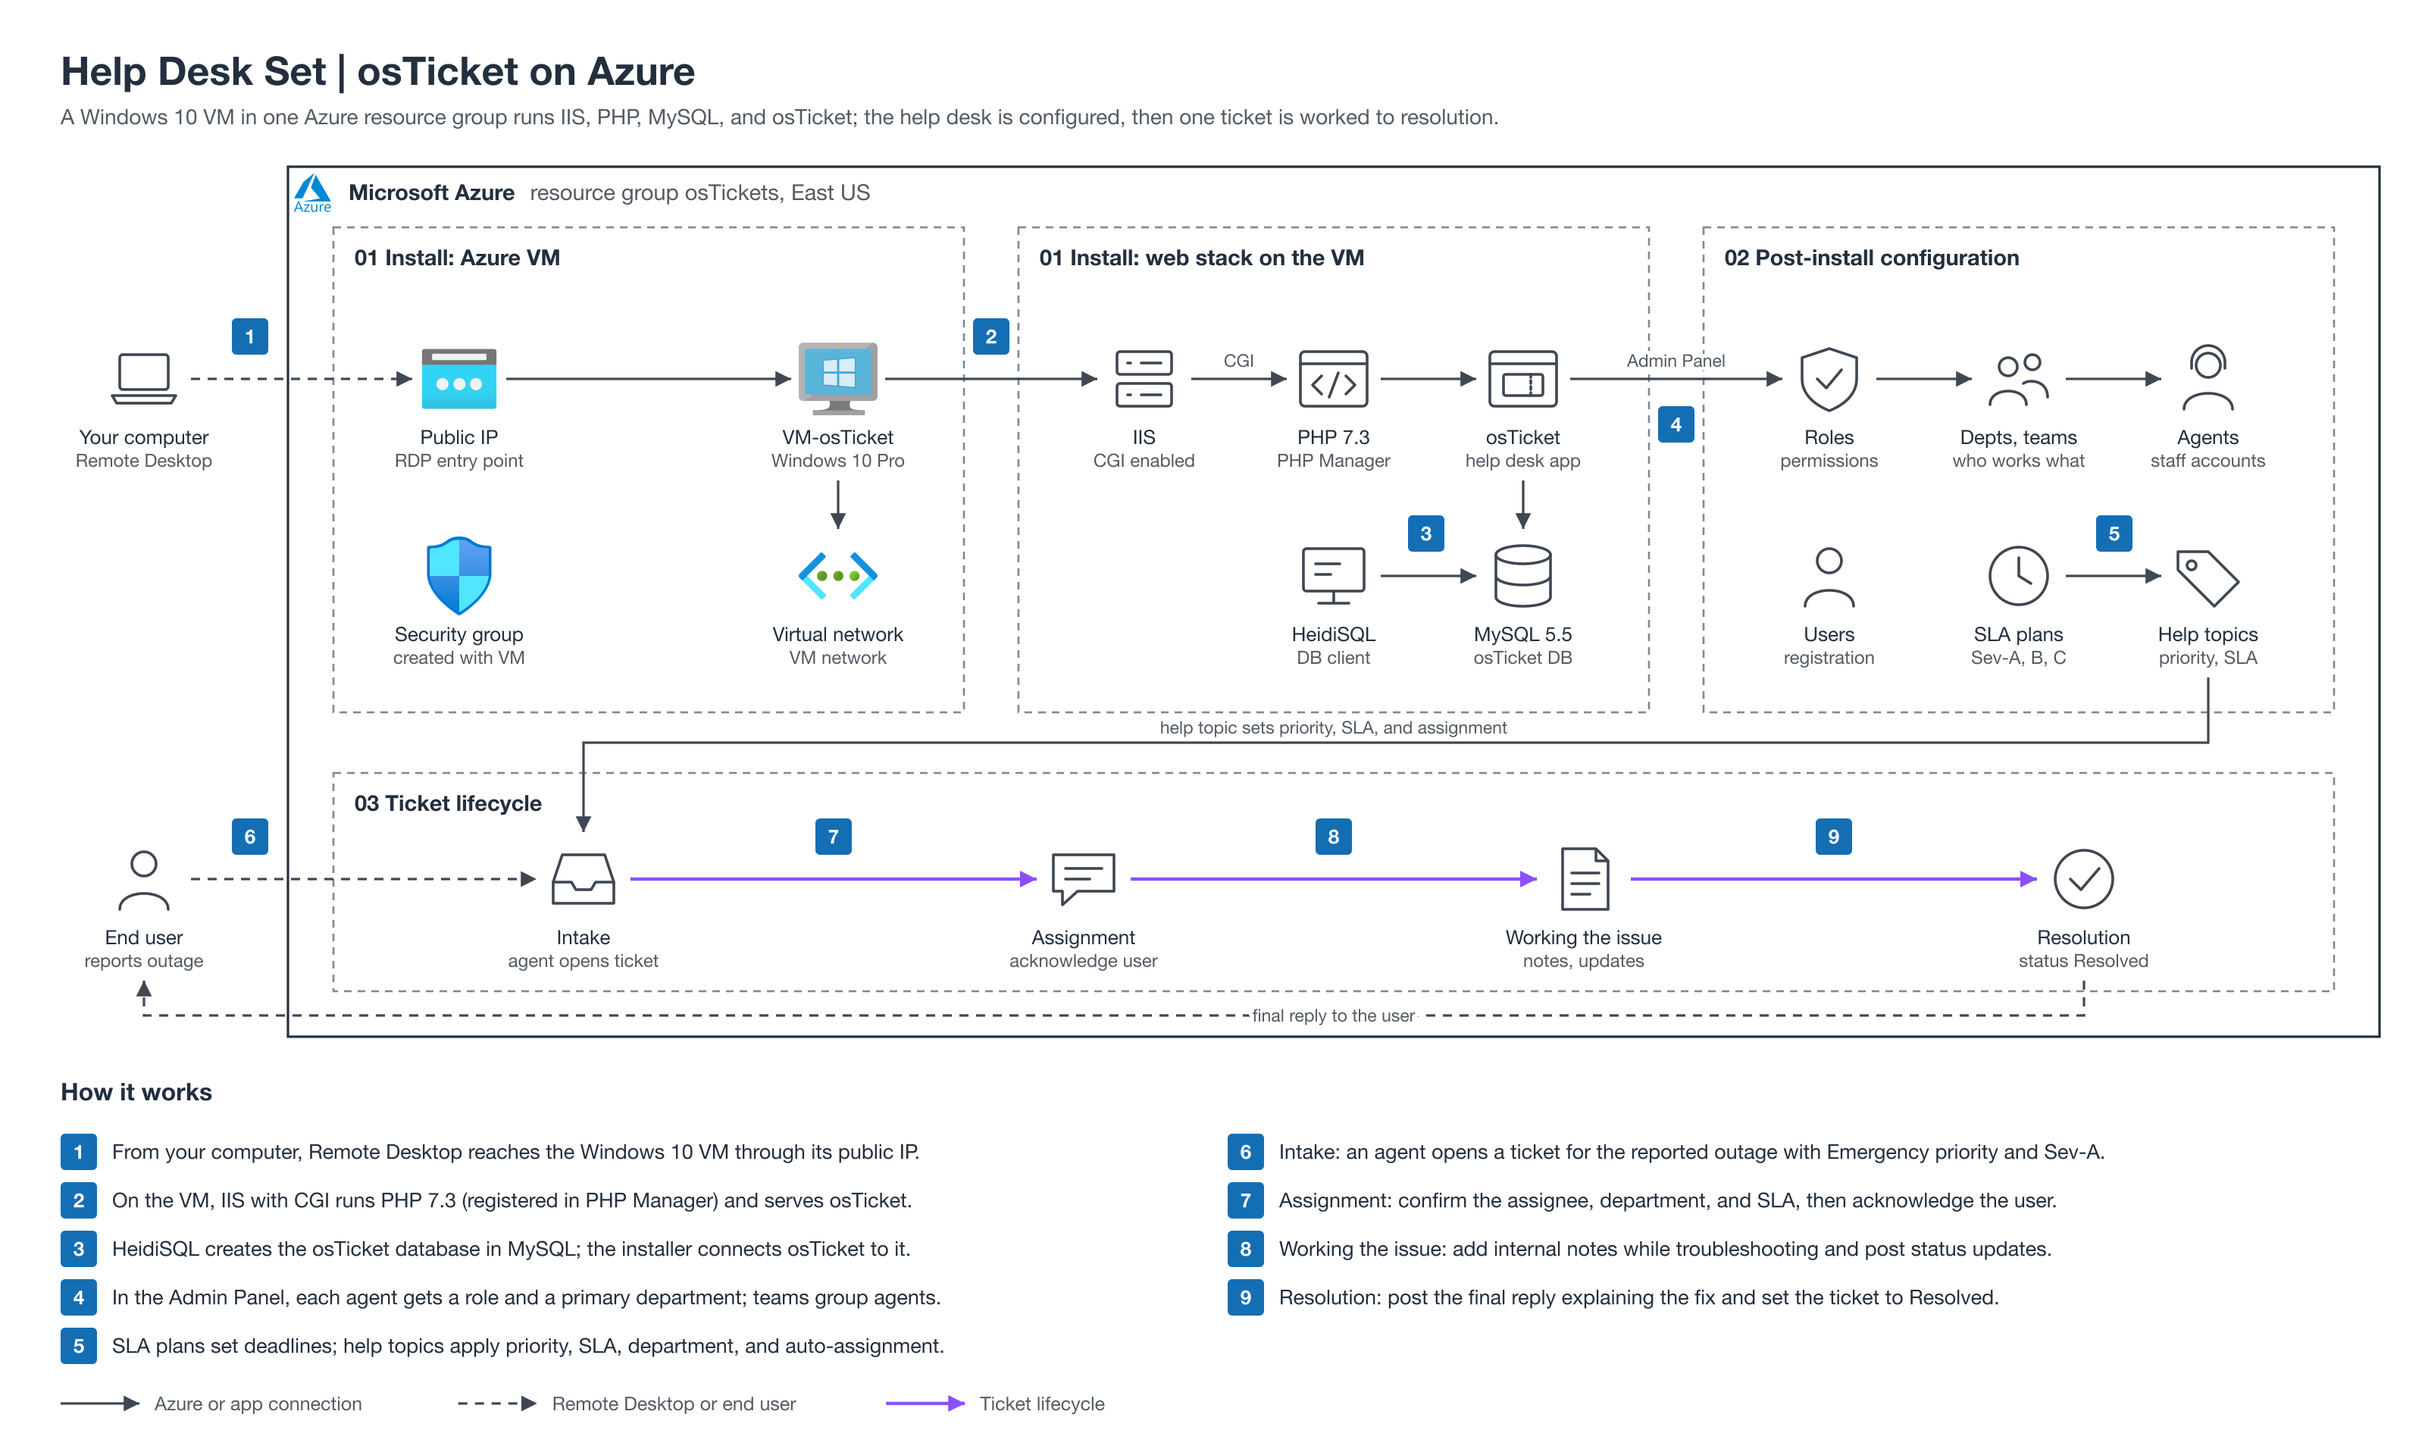
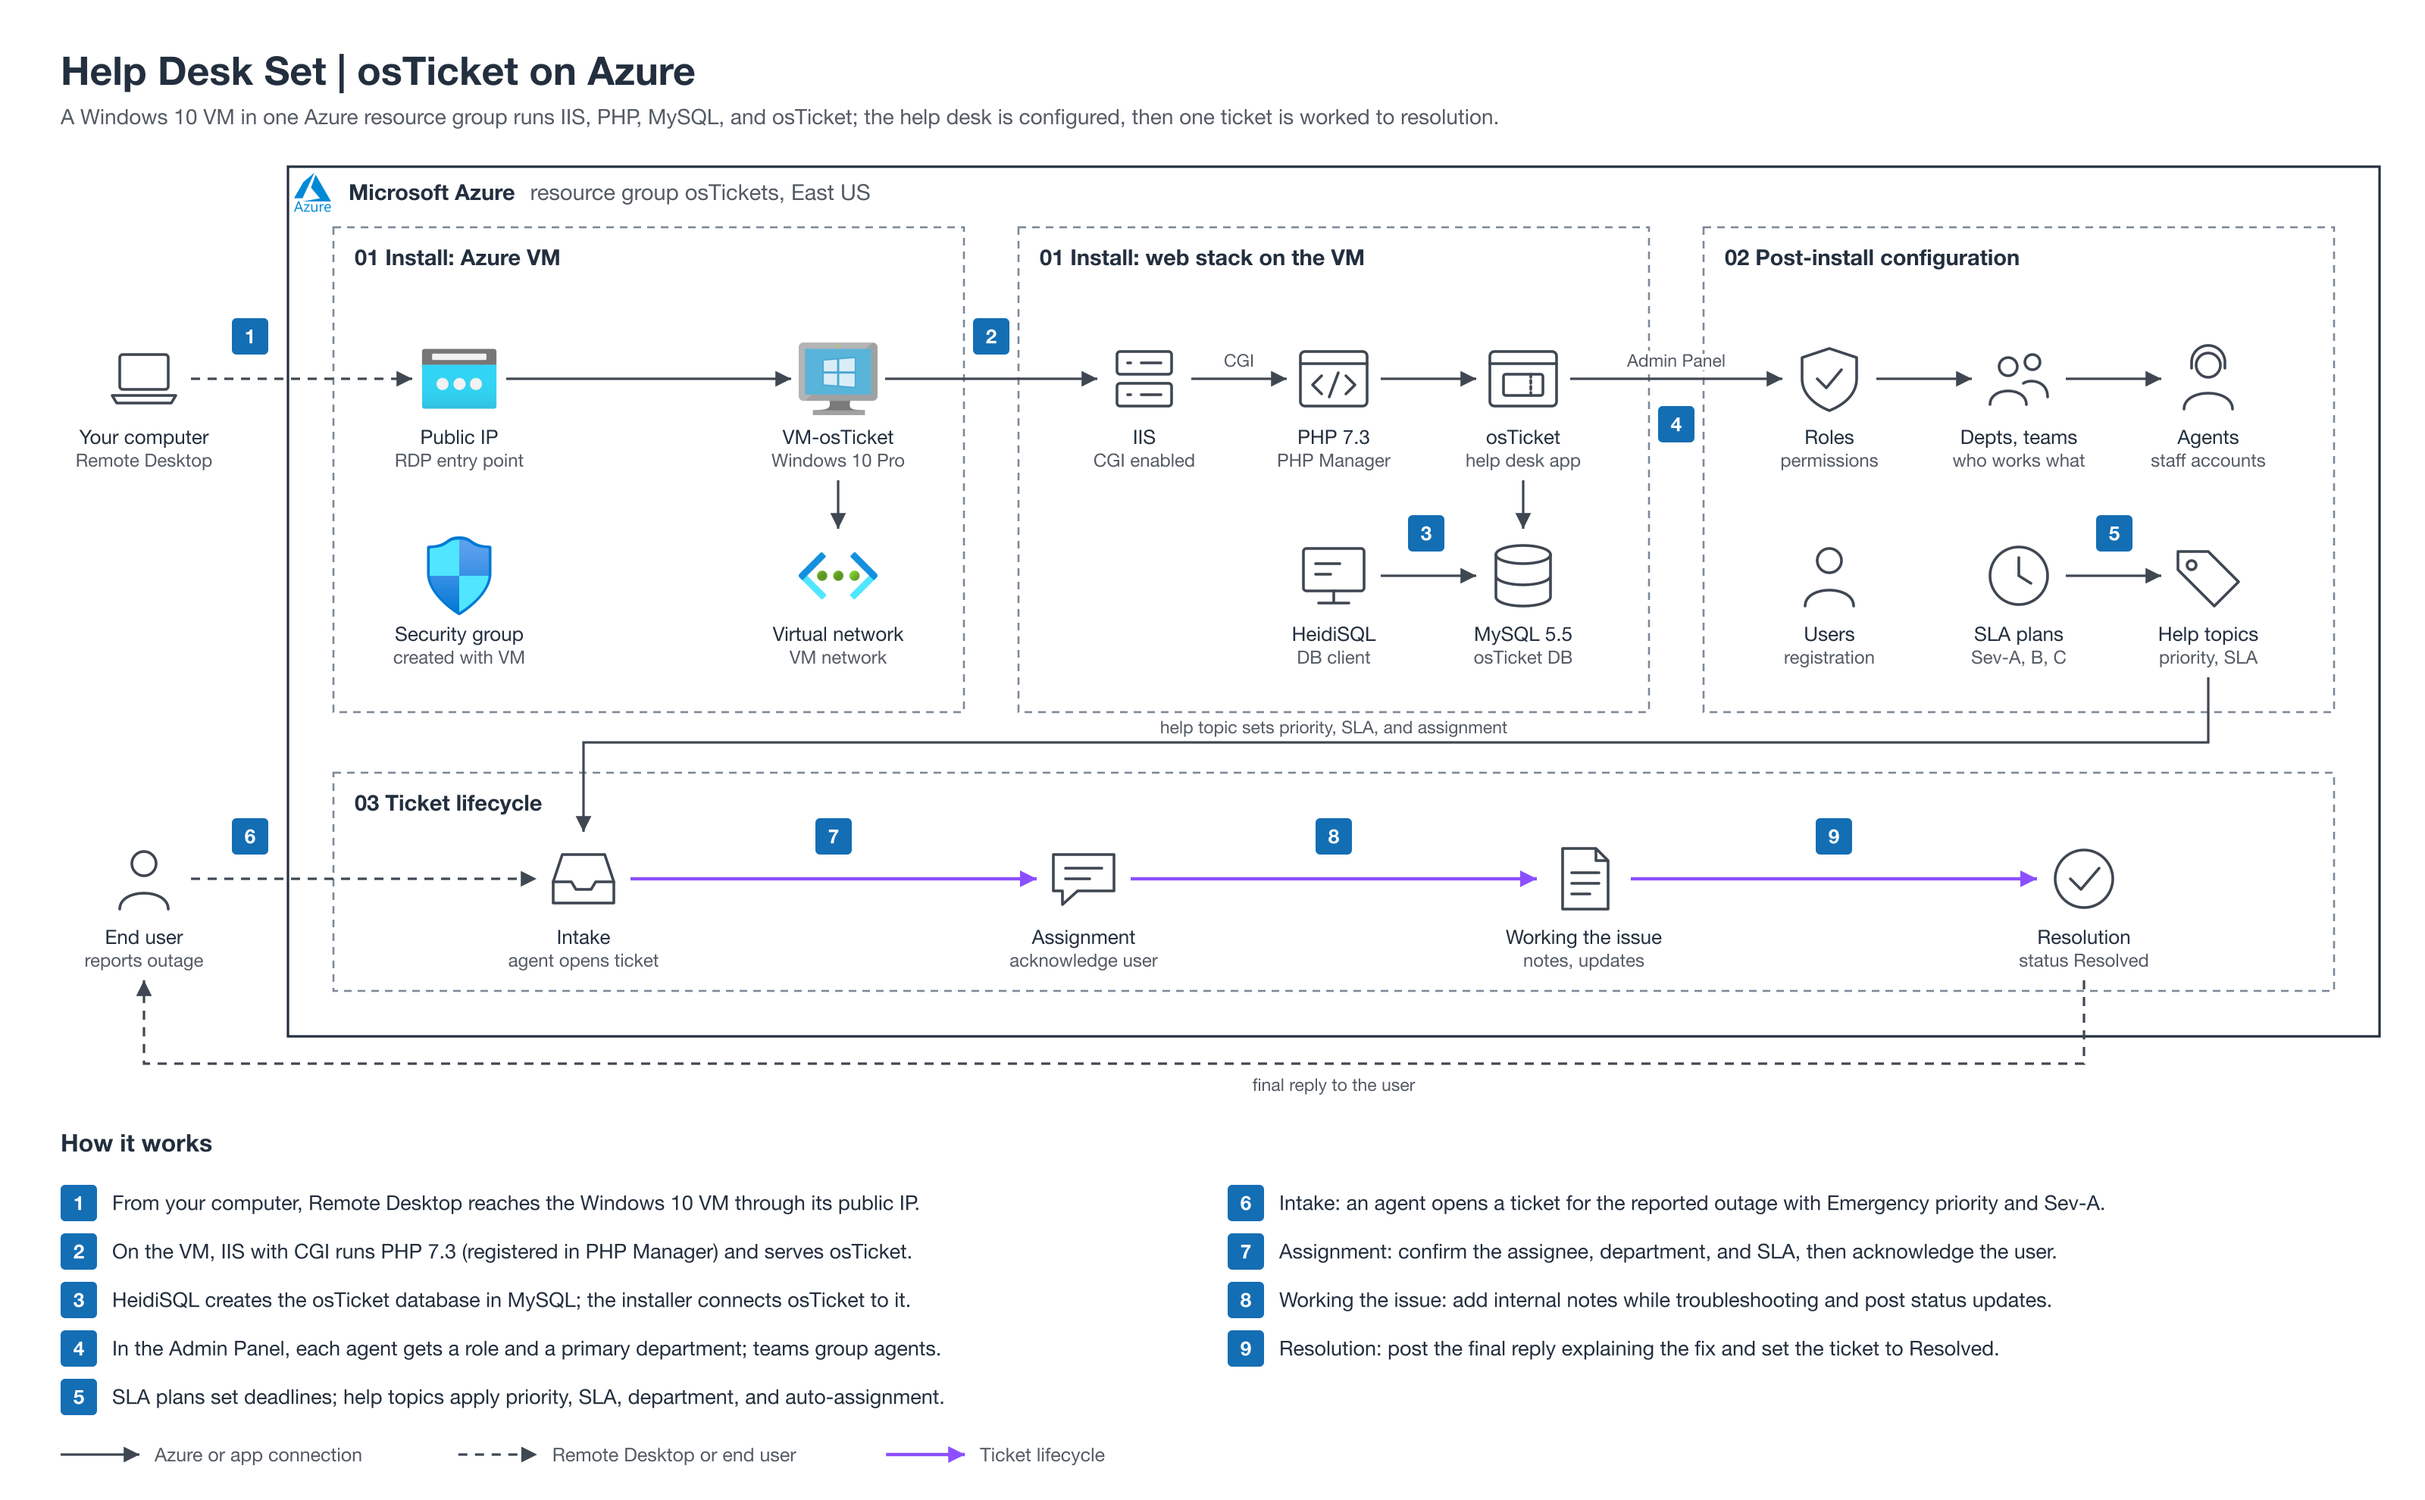
docs: add set architecture diagram

diff --git a/assets/architecture_diagram.py b/assets/architecture_diagram.py
@@ -7,7 +7,7 @@ lines, numbered steps with a plain-English legend). Deviations for this repo:
 Azure instead of AWS (official Azure icons from the `diagrams` package), stroke-only
 outline glyphs for software that has no official icon, and no footer or branding.
 
-Run:  /tmp/c340_diag_venv/bin/python architecture_diagram.py /tmp/<name>
+Run:  /tmp/diagram_venv/bin/python architecture_diagram.py /tmp/<name>
 It writes <name>.svg and <name>.png (rendered at 2x) and must print
 "layout problems: none".
 """
@@ -34,7 +34,7 @@ KINDS = {  # stroke, width, dash, arrowhead marker, legend label
 }
 
 # ---------------- canvas text ----------------
-W, H = 1600, 960
+W, H = 1600, 990
 TITLE = "Help Desk Set | osTicket on Azure"
 SUBTITLE = ("A Windows 10 VM in one Azure resource group runs IIS, PHP, MySQL, and osTicket; "
             "the help desk is configured, then one ticket is worked to resolution.")
@@ -177,7 +177,8 @@ SL = [[round(x0 + (x1 - x0) * f) for f in (0.2, 0.5, 0.8)] for x0, x1 in COLS]  
 ROWS = [(150, 470), (510, 654)]                       # group rows (row 1 spans all columns)
 A1, B1, L1 = 250, 380, 580                            # icon lanes (center y)
 XL = 95                                               # external column
-GUT, CHAN = 490, 670                                  # gutter between rows, return channel
+GUT, CHAN = 490, 702                                  # gutter between rows, return channel
+#                                                       (return channel runs below the boundary)
 
 # ---------------- canvas and Azure boundary ----------------
 add(f'<svg xmlns="http://www.w3.org/2000/svg" xmlns:xlink="http://www.w3.org/1999/xlink" '
@@ -260,7 +261,7 @@ link("resolve", "b", "user", "b", "external",
 
 # ---------------- line labels (white halo keeps them readable over lines) ----------------
 text(880, GUT - 6, "help topic sets priority, SLA, and assignment", 11.5, 400, TEXT2, halo=True)
-text(880, CHAN + 4, "final reply to the user", 11.5, 400, TEXT2, halo=True)
+text(880, CHAN + 18, "final reply to the user", 11.5, 400, TEXT2)  # beside the line, below it
 text((SL[1][0] + SL[1][1]) / 2, A1 - 8, "CGI", 11.5, 400, TEXT2, halo=True)
 text((SL[1][2] + SL[2][0]) / 2, A1 - 8, "Admin Panel", 11.5, 400, TEXT2, halo=True)
 
@@ -273,7 +274,7 @@ for cx, cy, n in [(165, 222, 1), (654, 222, 2), (941, 352, 3), (1106, 280, 4),
     badge(cx, cy, n)
 
 # ---------------- legend steps, one short sentence each, same order as the badges ----------------
-LY = 726
+LY = 760
 STEPS = [
     "From your computer, Remote Desktop reaches the Windows 10 VM through its public IP.",
     "On the VM, IIS with CGI runs PHP 7.3 (registered in PHP Manager) and serves osTicket.",
